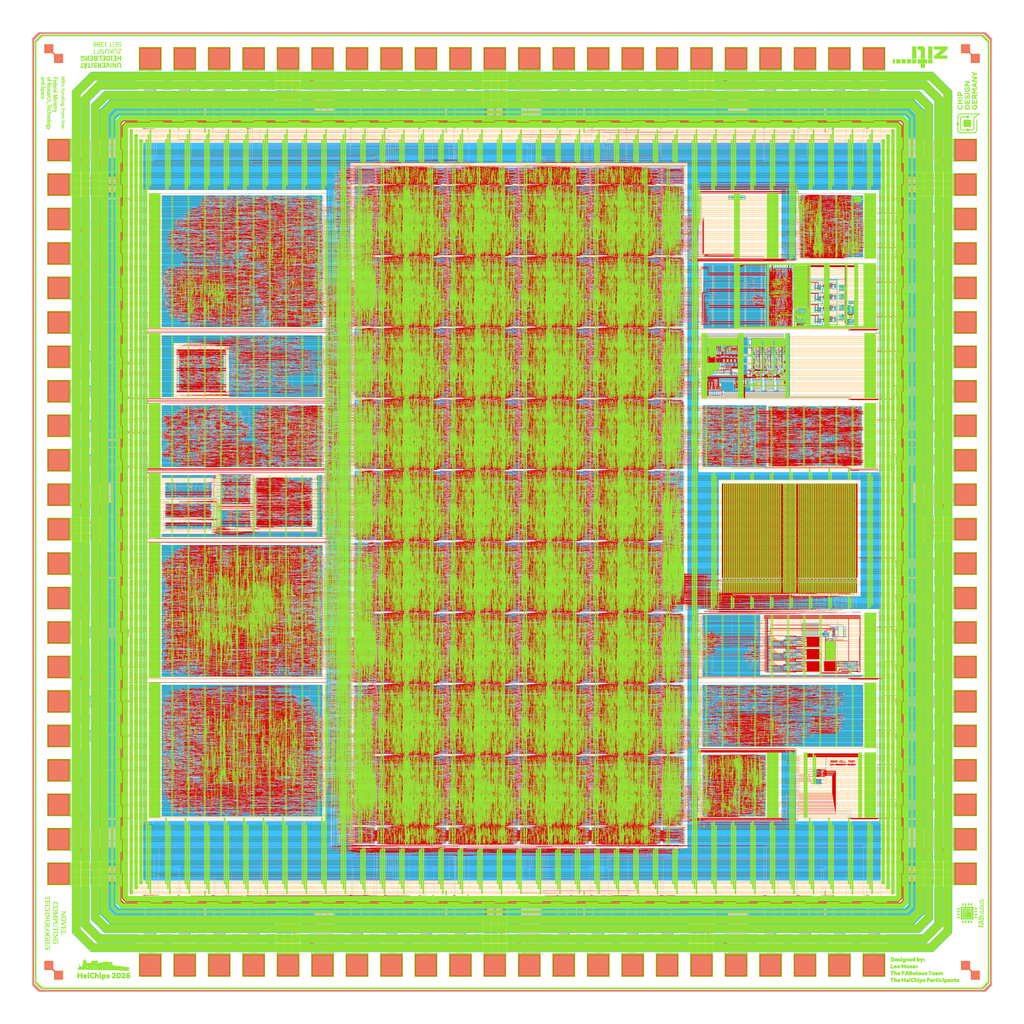
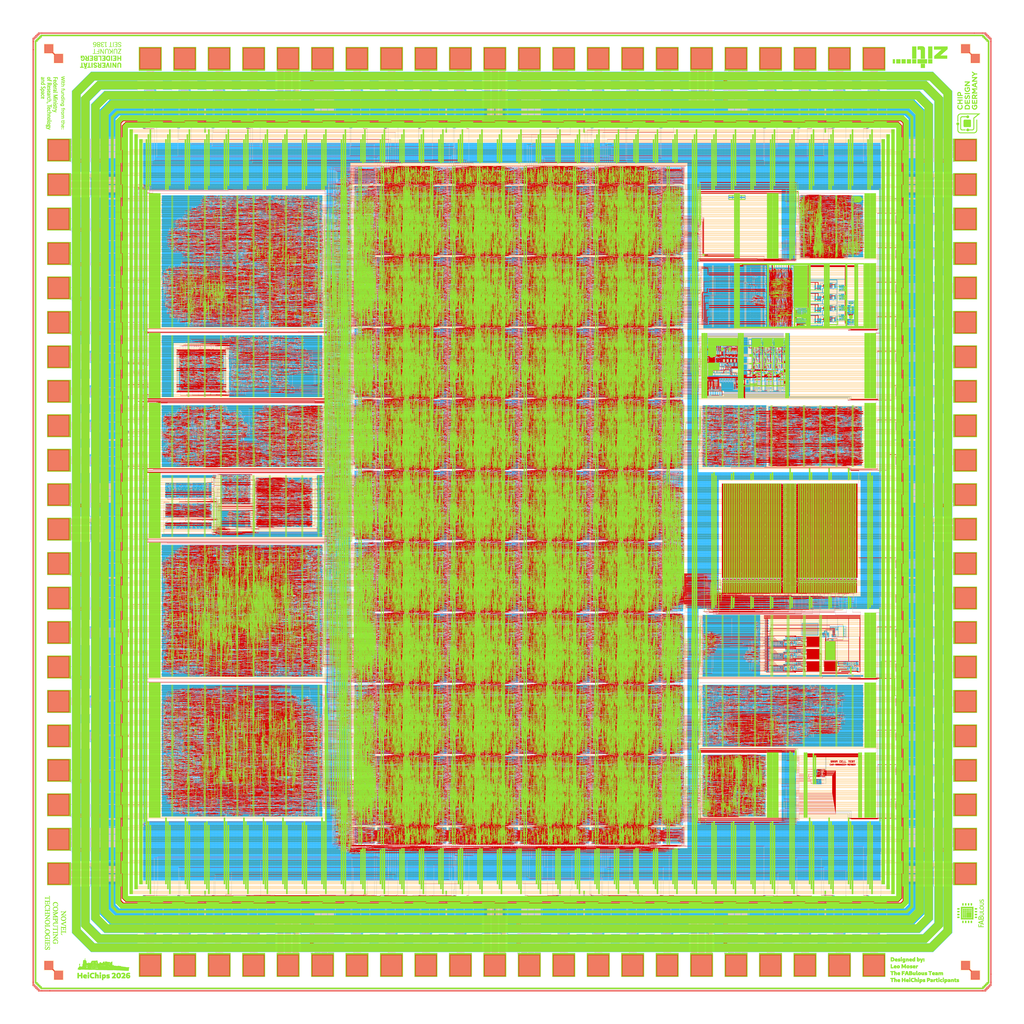
docs: update readme

Changed region(s): [[0.125, 0.1562, 0.8438, 0.875], [0.1875, 0.8438, 0.2188, 0.875]]

diff --git a/README.md b/README.md
@@ -1,11 +1,11 @@
-# HeiChips 2026 Tapeout [WIP!]
+# HeiChips 2026 Tapeout
 
 ![heichips26.jpg](img/heichips26.jpg)
 
-This repository contains the chip for the [HeiChips Summer School 2026](https://heichips.github.io/) targeting [SG13CMOS5L](https://dk.ihp-microelectronics.com/OpenSourceRequest.php) from IHP. It includes several designs created during the Hackathon all connected to a common eFPGA fabric in the center.
+This repository contains the chip for the [HeiChips Summer School 2026](https://heichips.github.io/), targeting [SG13CMOS5L](https://dk.ihp-microelectronics.com/OpenSourceRequest.php) from IHP. It includes several designs created during the Hackathon, all of which are connected to a central eFPGA fabric.
 Thanks to [FABulous](https://github.com/FPGA-Research/FABulous), the user bitstream for the FPGA can be generated using the [Yosys](https://github.com/YosysHQ/yosys) and [nextpnr](https://github.com/YosysHQ/nextpnr) toolchain.
 
-The chip is designed with open source EDA tools and the [IHP Open Source PDK](https://github.com/IHP-GmbH/IHP-Open-PDK).
+The chip has been designed using open-source EDA tools and the [IHP Open Source PDK](https://github.com/IHP-GmbH/IHP-Open-PDK).
 
 <p align="center">
   <a href="img/heichips26_top.png">
@@ -15,7 +15,7 @@ The chip is designed with open source EDA tools and the [IHP Open Source PDK](ht
 
 ## Feature Overview
 
-The chip includes several user submitted designs from the HeiChips 2026 Hackathon. In the center of the chip is an eFPGA which allows the user projects to connect to each other, utilize the SRAM, or connect to the external I/Os.
+The chip includes numerous user-submitted designs from the HeiChips 2026 Hackathon. An eFPGA is located in the center of the chip and allows user projects to connect to each other, utilize the SRAM, or access external I/Os.
 
 - FABulous eFPGA
   - 32x `IOBUF`
@@ -808,27 +808,29 @@ If passive SPI mode is selected, the bitstream can be supplied via an external S
 
 ## Specification
 
-The IO voltage (IOVDD) should be 3.3V.
+The I/O voltage (IOVDD) should be 3.3V.
 The core voltage (VDD) should be 1.2V.
 
-The top level, including the configuration logic, was implemented for the following corners at 80MHz and is free of setup and hold violations.
+The top level, including the configuration logic, is setup and hold violation free at up to 55.5MHz for the following corners:
 
-- nom_typ_1p20V_25C
-- nom_fast_1p32V_m40C
-- nom_slow_1p08V_125C
-- nom_typ_1p50V_25C
-- nom_fast_1p65V_m40C
-- nom_slow_1p35V_125C
+- `nom_typ_1p20V_25C`
+- `nom_fast_1p32V_m40C`
+- `nom_slow_1p08V_125C`
+- `nom_typ_1p50V_25C`
+- `nom_fast_1p65V_m40C`
+- `nom_slow_1p35V_125C`
 
-Using a core voltage higher than 1.65V (while remaining within the safe operating area) may still work, but could lead to hold violations in the configuration logic. If that happens, you can try increasing the voltage after configuration of the FPGA is complete.
+Using a core voltage higher than 1.65V (while remaining within the safe operating area) may still work, but could lead to hold violations in the configuration logic. If that happens, you can try increasing the voltage *after* configuration of the FPGA is complete.
 
 ## Pinout
 
+<!--
 <p align="center">
   <a href="img/heichips26_bonding.png">
     <img src="img/heichips26_bonding.png" alt="bonding diagram" width=65%>
   </a>
 </p>
+-->
 
 | Pin name                | Description                   |
 |-------------------------|-------------------------------|
@@ -844,10 +846,13 @@ Using a core voltage higher than 1.65V (while remaining within the safe operatin
 | fpga_miso               | SPI: controller in, peripheral out. |
 | fpga_config_trigger     | If high, trigger a reconfiguration in active mode from one of 16 slots of the SPI flash. |
 | fpga_config_slot[3:0]   | Set selected slot for the FPGA configuration. |
-| analog[2:0]             | Analog pins of `instance_small_3`. |
-| analog[5:3]             | Analog pins of `instance_small_4`. |
-| analog[8:6]             | Analog pins of `instance_small_5`. |
-| analog[16:9]            | Currently unused. |
+| analog[15:13]           | Analog pins of `heichips26_ook_top`. |
+| analog[12:10]           | Analog pins of `heichips26_vcr`. |
+| analog[9:7]             | Analog pins of `heichips26_multimode_dll`. |
+| analog[5:3]             | Analog pins of `heichips26_FAIf`. |
+| analog[2:0]             | Analog pins of `heichips26_sramcell_test`. |
+| analog[6]               | Unused. |
+| analog[16]              | Unused. |
 | fpga_io[31:0]           | I/O pins which can be controlled by the FPGA user project. |
 
 ## Building User Designs for the eFPGA
@@ -965,8 +970,8 @@ The chip is licensed under the Apache 2.0 license. This license may *not* apply 
 
 ## Acknowledgements
 
-The chip was designed by Leo Moser for the HeiChips Summer School 2026.
+This chip was designed by Leo Moser for the HeiChips Summer School 2026.
 
-The power gates for the user projects were designed by Daniel Arevalos Ortiz based on the TT power gates designed by Sylvain Munaut.
+The power gates for the user projects were designed by Daniel Arevalos Ortiz and are based on the TT power gates designed by Sylvain Munaut.
 
 Thanks to [Heidelberg University](https://www.uni-heidelberg.de/en), [BMFTR](https://www.bmftr.bund.de/) and [Chipdesign Germany](https://www.chipdesign-germany.de/en/) for their financial support, which enabled the tapeout of the chip.
